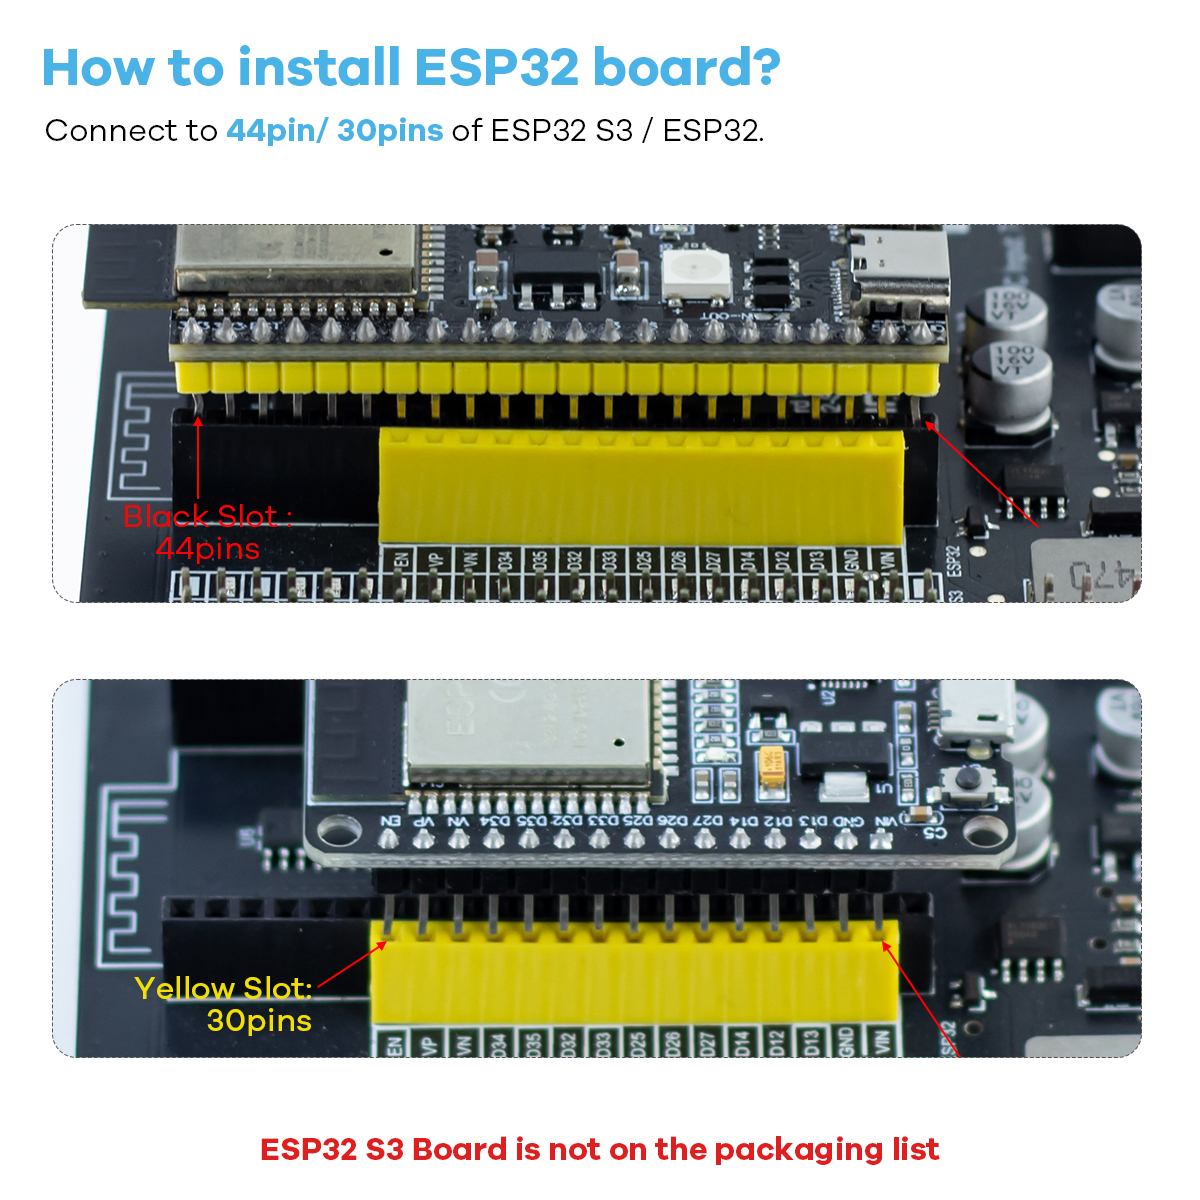
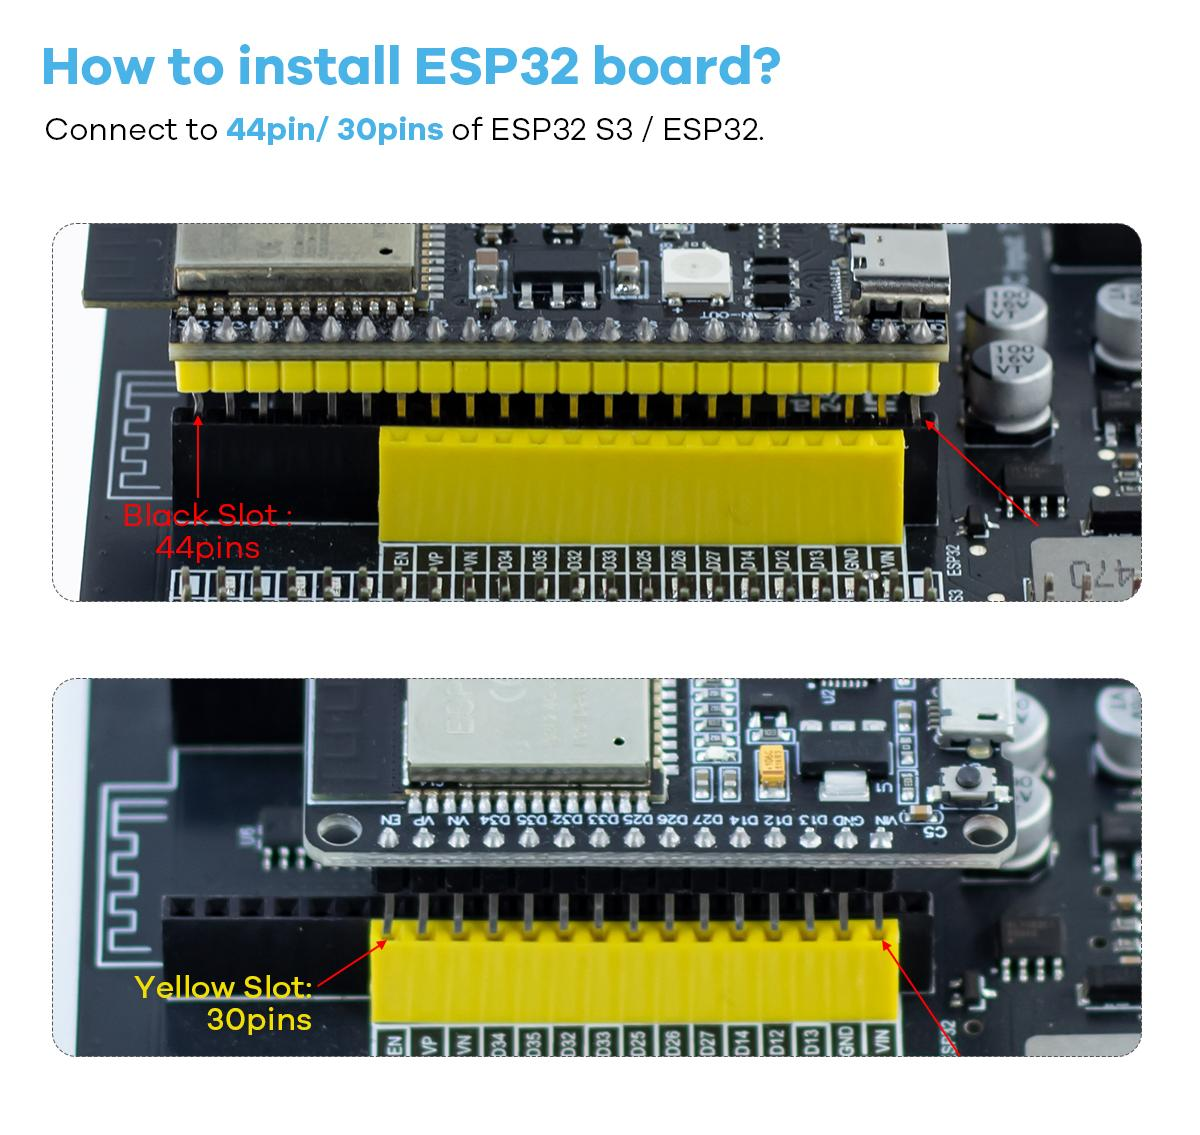
1

diff --git a/docs/source/Assembly/board Assembly.rst b/docs/source/Assembly/board Assembly.rst
@@ -9,7 +9,7 @@ ESP32 DEVKIT_V1 Board
 Please pay attention to the position of the antenna and ensure that the ESP32 DEVKT V1 / ESP32_S3 is correctly inserted onto the base board
 
    .. image:: /Tutorial/img/安装对比.jpg 
-
+ESP32 DEVKIT_V1 Board / ESP32_S3 is not on the packaging list
    .. image:: /Tutorial/img/32主控.jpg
    
  *ESP32 DEVKIT V1 Board after Assembly*
